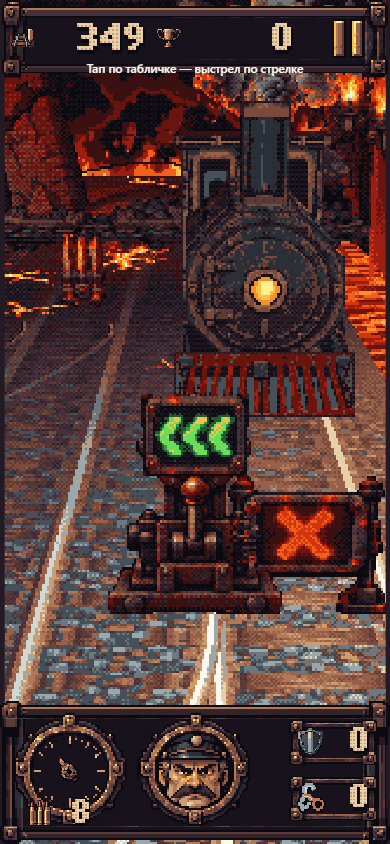
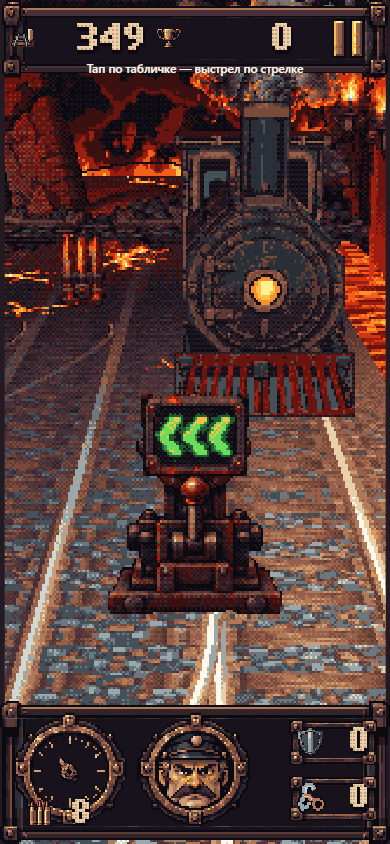
Убираю плашку с крестом: решение владельца, подсказка обучения без креста (Developer, Claude)

diff --git a/js/CollapseScene.js b/js/CollapseScene.js
@@ -806,12 +806,6 @@ class CollapseScene {
 
     static laneX(l) { return (l - 1) * CollapseScene.LANE_W; }
 
-    // Red cross at fork boundary i on `lane` (GDD v3 §4): a fork leaves that lane here, and staying on
-    // it is not safe — the same CollapseRun.forkSafe that colors the arrows, asked about the lane itself.
-    static crossAt(run, i, lane) {
-        return run.track.seg(i).forks.some(f => f.from === lane) && !run.forkSafe(i, lane);
-    }
-
     // The frame of a fork's lever: waiting; a shot lever shows the sparks for hitSec seconds (`shot` ago),
     // then stands over toward its exit. Armed without a shot seen (a restored run): already over.
     static leverFrame(md, armed, shot, hitSec) {
@@ -941,8 +935,8 @@ class CollapseScene {
 
     _segView(i, run) {
         const S = CollapseScene, scene = this.scene, seg = run.track.seg(i);
-        /** @type {{ lanes: any[], forks: any[], signs: any[], crosses: any[], pickups: any[], flows: any[], set: any }} */
-        const v = { lanes: [], forks: [], signs: [], crosses: [], pickups: [], flows: [], set: null };
+        /** @type {{ lanes: any[], forks: any[], signs: any[], pickups: any[], flows: any[], set: any }} */
+        const v = { lanes: [], forks: [], signs: [], pickups: [], flows: [], set: null };
         for (let l = 0; l < 3; l++) {
             const edge = S.gapEdge(run.track, i, l);
             if (seg.gap[l] && !edge) { v.lanes.push(null); continue; }
@@ -965,12 +959,6 @@ class CollapseScene {
             sign.metadata = { at: i, from: f.from, to: f.to, badge: this._leverBadge(sign) };
             v.signs.push(sign);
         }
-        // A red cross on each lane a fork leaves from: shown when staying on that lane is a fall.
-        for (const from of new Set(seg.forks.map(f => f.from))) {
-            const cross = this.sprite('cross-sign', 'cross-sign', CollapseArt.sign.cross, 150, 128);
-            cross.metadata = { lane: from };
-            v.crosses.push(cross);
-        }
         for (let l = 0; l < 3; l++) {
             const kind = seg.pickup[l];
             if (kind) {
@@ -988,7 +976,7 @@ class CollapseScene {
     }
 
     _disposeSeg(v) {
-        for (const m of [...v.lanes, ...v.forks.flatMap(f => [f.base, f.points]), ...v.signs, ...v.crosses, ...v.pickups, ...v.flows]) {
+        for (const m of [...v.lanes, ...v.forks.flatMap(f => [f.base, f.points]), ...v.signs, ...v.pickups, ...v.flows]) {
             if (m) { if (m.material && m.material.name.startsWith('sign-')) { this._mats.delete(m.material.name); m.material.dispose(); } m.dispose(); }
         }
     }
@@ -1099,14 +1087,6 @@ class CollapseScene {
                 sign.position.set(S.laneX(md.from) + (md.to - md.from) * S.LANE_W * this.signShift, 0, z);
                 sign.scaling.set(k * mirror, k, k);
                 md.badge.setEnabled(frame !== 'hit');   // the sparks land on the disc
-            }
-            for (const c of v.crosses) {
-                const lane = c.metadata.lane;
-                const visible = lane === run.lane && i > pos - 0.2 && drop === 0 && S.crossAt(run, i, lane);
-                c.setEnabled(visible);
-                if (!visible) continue;
-                c.position.set(S.laneX(lane), 0, z);
-                c.scaling.setAll((next && next.at === i ? 1 : 0.75) * this.signScale);   // the size of the arrows beside it
             }
             for (const p of v.pickups) {
                 const taken = run.isTaken(i) && p.metadata.lane === run.lane;

diff --git a/js/Lang.js b/js/Lang.js
@@ -49,8 +49,8 @@ const Lang = {
         "en": "A shot costs a cartridge; no ammo, no switching. Shoot and grab the crate"
     },
     "tutorial.cross": {
-        "ru": "Красный крест: на этой полосе впереди опасность. Иконки внизу покажут какая",
-        "en": "A red cross: danger ahead on this lane. The icons below show what is coming"
+        "ru": "На этой полосе впереди опасность. Иконки внизу покажут какая",
+        "en": "Danger ahead on this lane. The icons below show what is coming"
     },
     "tutorial.gap": {
         "ru": "Провал: колеи нет. Сверни заранее, иначе поезд упадёт",

diff --git a/docs/qa/levers/REPORT.md b/docs/qa/levers/REPORT.md
@@ -1,4 +1,4 @@
-Рычаг виден на телефоне и перекидывается в сторону выбранной полосы; опасная сторона читается: зелёные стрелки на диске стойки, красный крест на своей плашке. Тап взводит развилку 8 из 8.
+Рычаг виден на телефоне и перекидывается в сторону выбранной полосы; опасная сторона читается: зелёные стрелки или красный крест на диске стойки. Тап взводит развилку 8 из 8.
 
 Карточка 39 — рычажные стрелки, 2026-11-01, Claude (Developer).
 
@@ -26,8 +26,8 @@
 | Демоны в кадре и сбиты, те же экраны | 18 из 18 и 18 из 18 |
 | `await Debug3D.lint()`, у развилки, 390×844 | 0 находок |
 | Цена кадра 360×640, 5 запусков | 1,96 мс (1,86–2,11), до карточки 2,02 мс: разница в пределах разброса |
-| `node tools/build.mjs`, код 0 | 4 458 909 байт, 4,25 МБ |
-| `node tools/check.mjs --tests`, код 0, стена 5,2 с | 170 из 170 |
+| `node tools/build.mjs`, код 0 | 4 458 583 байта, 4,25 МБ |
+| `node tools/check.mjs --tests`, код 0, стена 5,4 с | 170 из 170 |
 | Живой цикл 24 с с тапами | 37 тапов, ошибок консоли 0 |
 
 Новая проба: кадры рычага и задержка остряков в `tests/collapse-scene.test.mjs`. Снята задержка остряков → красная. Первый запуск пробы упал на самой пробе: 5 + 0,14 − 5 в плавающей точке меньше 0,14; момент в ней заменён.
@@ -37,7 +37,7 @@
 - **Вид проходит единую палитру только в финальном проходе кадра**: растры `assets/px/switch` сами вне 32 цветов и в проверку `tools/art/` не входят, эти файлы менять запрещено.
 - **Промежуточного кадра рычага нет**, поворот рычага не плавный: `hit` с наклоном, затем `set_*`. Движение передают смена кадра и рост стойки. Остряки тоже меняются одним кадром: их растры дают только два положения.
 - **Сигнал на диске — вырезка панели старой таблички**, не отдельный арт. Панель 84 ед. вместо 102 у таблички.
-- **Красный крест на полосе, откуда уходит развилка, остался плашкой**: он не цель тапа, рычага за ним нет.
+- **Плашка с крестом снята решением владельца, 2026-11-01**: на кадрах этой папки её больше нет. Красный крест остаётся на диске рычага, если опасен сам выход. Что опасна своя полоса, говорят иконки внизу; подсказка шага обучения `tutorial.cross` переписана без креста.
 - **Подсказка внизу говорит «Тап по табличке»**: текст в `js/Lang.js`, карточка его не трогала. Это правка на одну строку RU и EN.
 - Вспышка выстрела у кабины ужата до 0,4 своего размера: в полный размер она читалась как взрыв у трубы.
 - Цена кадра на телефоне не замерена.
